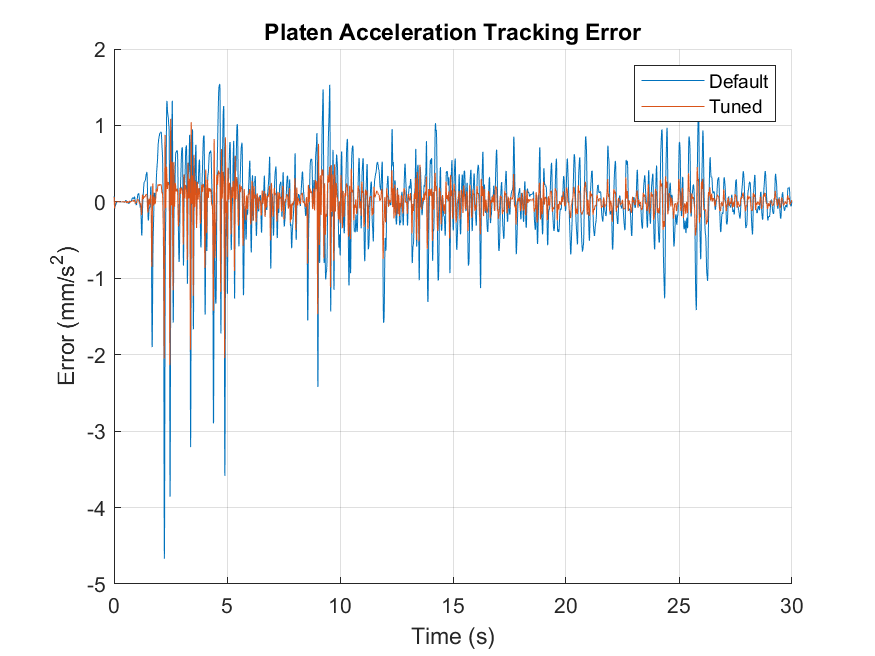
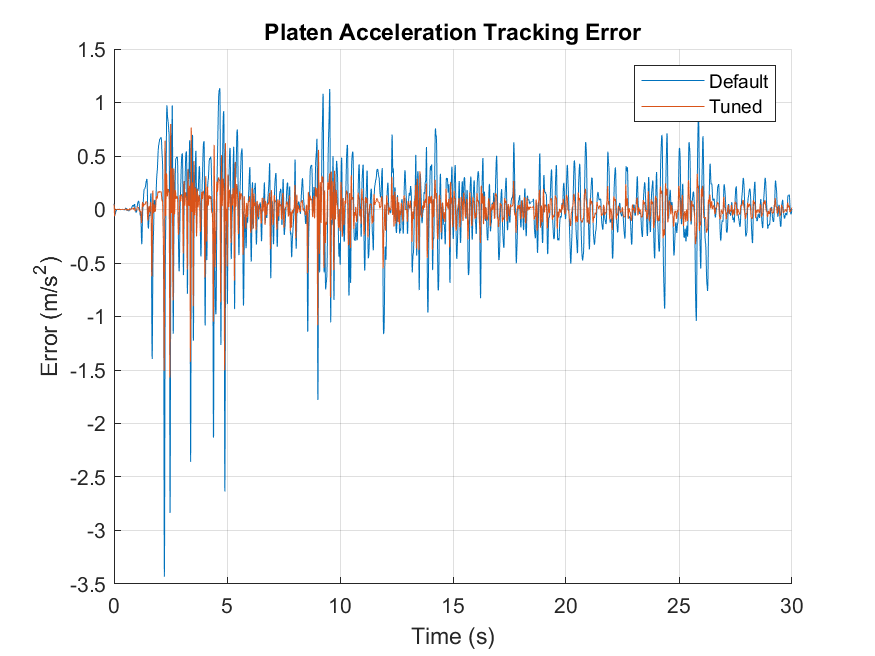
commit

diff --git a/uniaxial_table_model/simulation_and_plotting.m b/uniaxial_table_model/simulation_and_plotting.m
@@ -7,12 +7,18 @@ clc
 k_p=1.2993/1e-2; %SI units %Pgain (kp=1.2993 V/cm) 
 G_c = tf(k_p,1);
 
-[s,G_T,G_1,G_2,G_T1 ,G_21 ,G_svq,G_csv,G_x2_x1,G_x1_xT,G_xT_Fp,G_Fp_xref,G_xT_xref,G_x1_xref,G_x2_xT , G_Fp_isv ]=Compute_TFs(G_c);
+[s,G_T,G_1,G_2,G_T1 ,G_21 ,G_svq,G_csv,G_x2_x1,G_x1_xT,G_xT_Fp,G_Fp_xref,G_xT_xref,G_x1_xref,G_x2_xT , G_Fp_isv , Ass , Bss ]=Compute_TFs_and_StateSpace(G_c);
+
+% Limits
+lim_displacement = 100 % mm
+lim_velocity = 0.4 % m/s
+lim_force = 200e3 % N
 
 %%
 dados = load('elcentro.txt');
 t_vector = dados(:,1);
 t_step = t_vector(2);
+ddx_ref = dados(:,2);
 ddx = [t_vector dados(:,2)];
 ddy = [t_vector  dados(:,3)];
 
@@ -30,6 +36,8 @@ fig5= figure(5); clf;
 ax5 = axes(fig5); hold(ax5, 'on');
 fig6= figure(6); clf; 
 ax6 = axes(fig6); hold(ax6, 'on');
+fig7= figure(7); clf; 
+ax7 = axes(fig7); hold(ax7, 'on');
 
 % First plot
 axes(ax1); % Activate the existing axes
@@ -39,8 +47,28 @@ grid on
 
 
 % displacements in milimeters
-x_ref = lsim(1e3/s^2,  ddx(:,2) ,ddx(:,1),'foh');
-x_T = lsim(G_xT_xref*1e3/s^2 ,  ddx(:,2) ,ddx(:,1),'foh');
+x_ref = lsim(1e3/s^2,  ddx_ref , t_vector ,'foh');
+max_xref = max(x_ref)
+scale=1;
+while max_xref > lim_displacement
+    scale = 0.95*scale
+    ddx_ref = 0.95*ddx_ref;
+    x_ref = lsim(1e3/s^2,  ddx_ref , t_vector ,'foh');
+    max_xref = max(x_ref)
+end
+
+v_ref =  lsim(1/s,  ddx_ref , t_vector ,'foh');
+max_vref = max(v_ref)
+while max_vref > lim_displacement
+    scale = 0.95*scale
+    ddx_ref = 0.95*ddx_ref;
+    v_ref =  lsim(1/s,  ddx_ref , t_vector ,'foh');
+    max_vref = max(v_ref)
+end
+
+
+
+x_T = lsim(G_xT_xref*1e3/s^2 ,  ddx_ref ,t_vector,'foh');
 erro = x_T-x_ref;
 mse = mean(erro.^2);
 % Third plot
@@ -48,8 +76,8 @@ axes(ax3); % Activate the existing axes
 grid on
 title(' Platen Displacement '); 
 hold on
-plot(ddx(:,1),x_ref,"DisplayName","Reference")
-plot(ddx(:,1),x_T,"DisplayName","MSE="+string(mse))
+plot(t_vector,x_ref,"DisplayName","Reference")
+plot(t_vector,x_T,"DisplayName","MSE="+string(mse))
 legend()
 xlabel('Time (s)'); 
 ylabel('Displacement (mm)');
@@ -58,14 +86,14 @@ ylabel('Displacement (mm)');
 axes(ax5); % Activate the existing axes
 grid on
 title(' Platen Displacement Tracking Error '); 
-plot(ddx(:,1),erro,"DisplayName","Default")
+plot(t_vector,erro,"DisplayName","Default")
 legend()
 xlabel('Time (s)'); 
 ylabel('Error (mm)');
 
 
 % Fourth plot
-ddx_ref=ddx(:,2);
+ddx_ref=ddx_ref;
 ddx_T = lsim(G_xT_xref, ddx_ref , t_vector ,'foh');
 erro = ddx_T-ddx_ref;
 mse = mean(erro.^2);
@@ -73,8 +101,8 @@ axes(ax4); % Activate the existing axes
 grid on
 title('Platen Acceleration'); 
 hold on
-plot(ddx(:,1),ddx_ref,"DisplayName","Reference")
-plot(ddx(:,1),ddx_T,"DisplayName","MSE="+string(mse))
+plot(t_vector,ddx_ref,"DisplayName","Reference")
+plot(t_vector,ddx_T,"DisplayName","MSE="+string(mse))
 legend()
 xlabel('Time (s)'); 
 ylabel('Acceleration (m/s^2)');
@@ -83,10 +111,10 @@ ylabel('Acceleration (m/s^2)');
 axes(ax6); % Activate the existing axes
 grid on
 title(' Platen Acceleration Tracking Error '); 
-plot(ddx(:,1),erro,"DisplayName","Default")
+plot(t_vector,erro,"DisplayName","Default")
 legend()
 xlabel('Time (s)'); 
-ylabel('Error (mm/s^2)');
+ylabel('Error (m/s^2)');
 
 
 % Second plot
@@ -95,10 +123,24 @@ grid on
 hold on
 title('Input to Servo'); 
 legend();
-i_sv = lsim(G_c*1e-3 ,   x_ref-x_T ,ddx(:,1),'foh');
-plot(ddx(:,1),i_sv,"DisplayName","Default")
+i_sv = lsim(G_c,   (x_ref-x_T)*1e-3  , t_vector,'foh');
+plot(t_vector,i_sv,"DisplayName","Default")
 xlabel('Time (s)'); 
 ylabel('Voltage (V)');
+
+%  plot
+axes(ax7); % Activate the existing axes
+grid on
+hold on
+title('Force to Platen'); 
+legend();
+F_p_isv = lsim(G_Fp_isv,   i_sv  , t_vector,'foh');
+F_p_xT =  lsim(1/G_xT_Fp,   x_T*1e-3  , t_vector,'foh');
+plot(t_vector,F_p_isv,"DisplayName","Default")
+plot(t_vector,F_p_xT,"DisplayName","Default")
+plot(t_vector, (1.9751*1e3+2e3)*ddx_ref)
+xlabel('Time (s)'); 
+ylabel('Force (N)');
 
 
 %% Finding Response Spectre
@@ -231,33 +273,34 @@ legend( 'Default'  ,  'Tuned');
 
 % displacements in milimeters
 axes(ax3); % Activate the existing axes
-x_T_tuned = lsim(G_xT_xref*1e3/s^2 ,  ddx(:,2) ,ddx(:,1),'foh');
+x_T_tuned = lsim(G_xT_xref*1e3/s^2 ,  ddx_ref ,t_vector,'foh');
 erro = x_T_tuned-x_ref;
 mse = mean(erro.^2);
-plot(ddx(:,1),x_T_tuned,"DisplayName","Tuned MSE="+string(mse))
+plot(t_vector,x_T_tuned,"DisplayName","Tuned MSE="+string(mse))
 
 % 5th plot
 axes(ax5); % Activate the existing axes
 % hold on
-plot(ddx(:,1),erro,"DisplayName","Tuned")
+plot(t_vector,erro,"DisplayName","Tuned")
 
 % Fourth plot
 axes(ax4); % Activate the existing axes
-ddx_T_tuned = lsim(G_xT_xref, ddx(:,2) ,ddx(:,1),'foh');
+ddx_T_tuned = lsim(G_xT_xref, ddx_ref ,t_vector,'foh');
 erro = ddx_T_tuned-ddx_ref;
 mse = mean(erro.^2);
-plot(ddx(:,1),ddx_T_tuned,"DisplayName","Tuned MSE="+string(mse))
+plot(t_vector,ddx_T_tuned,"DisplayName","Tuned MSE="+string(mse))
 
 % 6th plot
 axes(ax6); % Activate the existing axes
 hold on
-plot(ddx(:,1),erro,"DisplayName","Tuned")
+plot(t_vector,erro,"DisplayName","Tuned")
 
 
 % Second plot
 axes(ax2); % Activate the existing axes
-i_sv = lsim(G_c*1e-3  ,   x_ref-x_T ,ddx(:,1),'foh');
-plot(ddx(:,1),i_sv,"DisplayName","Tuned")
+hold on
+i_sv = lsim(G_c*1e-3  ,   x_ref-x_T ,t_vector,'foh');
+plot(t_vector,i_sv,"DisplayName","Tuned")
 
 
 %% Finding Response Spectre for table tuned
@@ -320,6 +363,26 @@ mse_RS_x_table = mean(erro_RS_x_table.^2)
 erro_RS_x_table_tuned = filtered_picos_x_table_tuned-filtered_picos_x_ground;
 mse_RS_x_table_tuned = mean(erro_RS_x_table_tuned.^2)
 
+
+%% State Space model
+
+
+% u = Fp
+% y = x_ss
+
+Css= eye(6);
+Dss = 0;
+
+MV = struct(Min=-lim_force,Max=lim_force);
+p = 20;
+m = 3;
+mpcobj = mpc(Plant,Ts,p,m,[],MV);
+
+
+
+
+
+
 %% Save all figures after plotting
 saveas(fig1, 'Bode_of_G_xT_xref.png');
 saveas(fig2, 'Input_to_Servo.png');
@@ -328,7 +391,6 @@ saveas(fig4, 'Platen_Acceleration.png');
 saveas(fig5, 'Platen_Displacement_Tracking_Error.png');
 saveas(fig6, 'Platen_Acceleration_Tracking_Error.png');
 saveas(F1, 'Response_Spectra.png');
-
 
 
 %%

diff --git a/uniaxial_table_model/Compute_TFs_and_StateSpace.m b/uniaxial_table_model/Compute_TFs_and_StateSpace.m
@@ -1,0 +1,105 @@
+function [s,G_T,G_1,G_2,G_T1 ,G_21 ,G_svq,G_csv,G_x2_x1,G_x1_xT,G_xT_Fp,G_Fp_xref,G_xT_xref,G_x1_xref,G_x2_xT,G_Fp_isv , Ass , Bss ]=Compute_TFs_and_StateSpace(G_c)
+
+%coupled 2DOF system
+%  structure parameters
+% 1st mode
+m1= 1e3; % kg
+f1 = 2; % Hz
+zeta1 = 0.05 ; 
+
+% k1 = m1*(2*pi*f1)^2; %N/m
+c1 = zeta1*2*m1*2*pi*f1 %N/m/s
+
+%2nd mode
+m2= 1e3; % kg
+f2 = 10; % Hz
+zeta2 = 0.1; %
+
+c2 = zeta2*2*m2*2*pi*f2 %N/m/s
+
+syms k1 k2
+assume(k1 ,"positive")
+assume(k2 ,"positive")
+
+Y = vpasolve([
+    (m1*k2 + m2*(k1+k2))/(2*m1*m2) - 0.5*sqrt( ((m1*k2+m2*(k1+k2))/(m1*m2))^2 - 4*( k1*k2 )/(m1*m2) ) == (2*pi*f1)^2  ,
+    (m1*k2 + m2*(k1+k2))/(2*m1*m2)+ 0.5*sqrt( ((m1*k2+m2*(k1+k2))/(m1*m2))^2 - 4*( k1*k2 )/(m1*m2) ) == (2*pi*f2)^2,
+], [k1,k2])
+
+k1 = double(Y.k1)
+k2 = double(Y.k2)
+
+
+%Servo-valve parameters
+% All converted to SI units
+tau_sv=0.0246     ; %Valve time constant (tsv=0.0246 s)
+k_svk_q=1934.5*(1e-2)^3   ; %Valve flow gain (ksv∙kq=1934.5 cm3/s/V)
+
+%from Gidewon k_pl =  k_c + C_l 
+k_pl=1.67401e-7/1e3 ; %Valve pressure gain & leakadge factor (kpl=1.67401e-7 m3/s/kPa)
+
+Be=193716.28*1e3 ;  %Oil Bulk modulus (Be=193716.28 kPa)
+Vt=0.002659   ;  %Oil Volume on actuator chamber (Vt=0.002659 m3)
+A=0.012456    ;  %Piston area (A=0.012456 m2)
+k_h=4*Be*A^2/Vt*1e3; %(kPa m1)
+
+mT=1.9751*1e3;       %Platen mass (mp=1.9751 t)
+cT=5.78*1e3;        %Total damping, actuator + platen (ct=5.78 kN s/m1)
+
+
+% TF's
+s=tf('s')  ;
+
+G_T=mT*s^2+(cT+c1)*s+k1;
+G_1=m1*s^2+(c1+c2)*s+k1+k2;
+G_2=m2*s^2+c2*s+k2;
+
+G_T1=c1*s+k1;
+G_21=c2*s+k2;
+
+G_svq = k_svk_q/(1+tau_sv*s);
+
+G_csv=G_c*G_svq;
+
+G_x2_x1= G_21/G_2;
+G_x1_xT = G_T1*G_2/(G_1*G_2-G_21^2);
+G_xT_Fp = G_1*G_2-G_21^2/(G_T*G_1*G_2-G_T*G_21^2-G_2*G_T1^2);
+
+G_Fp_xref = G_csv/( k_pl/A + A*s/k_h +G_xT_Fp*(G_csv + A*s));
+
+G_xT_xref = G_Fp_xref * G_xT_Fp;
+G_x1_xref = G_x1_xT*G_xT_xref;
+G_x2_xT = G_x2_x1 * G_x1_xT;
+
+G_Fp_isv = A*G_svq/( k_pl+A^2*s/k_h+A^2*s*G_xT_Fp );
+
+
+% State Space model
+
+% x_ss = [ xT x1 x2 dxT dx1 dx2 ]
+
+M = diag( [ mT m1 m2] )
+
+C = [ cT+c1 -c1 0;
+            -c1 c1+c2 -c2;
+            0 -c2 c2]
+K = [ k1 -k1 0;
+         -k1 k1+k2 -k2;
+          0 -k2 k2]
+
+Ass = [ zeros(3) , eye(3) ;
+          -K/M  , -C/M ]
+
+Bss = [0 0 0 1/mT 0 0]'
+
+% u = Fp
+
+% y = x_ss
+
+Css= eye(6);
+
+D = 0;
+
+
+
+end
